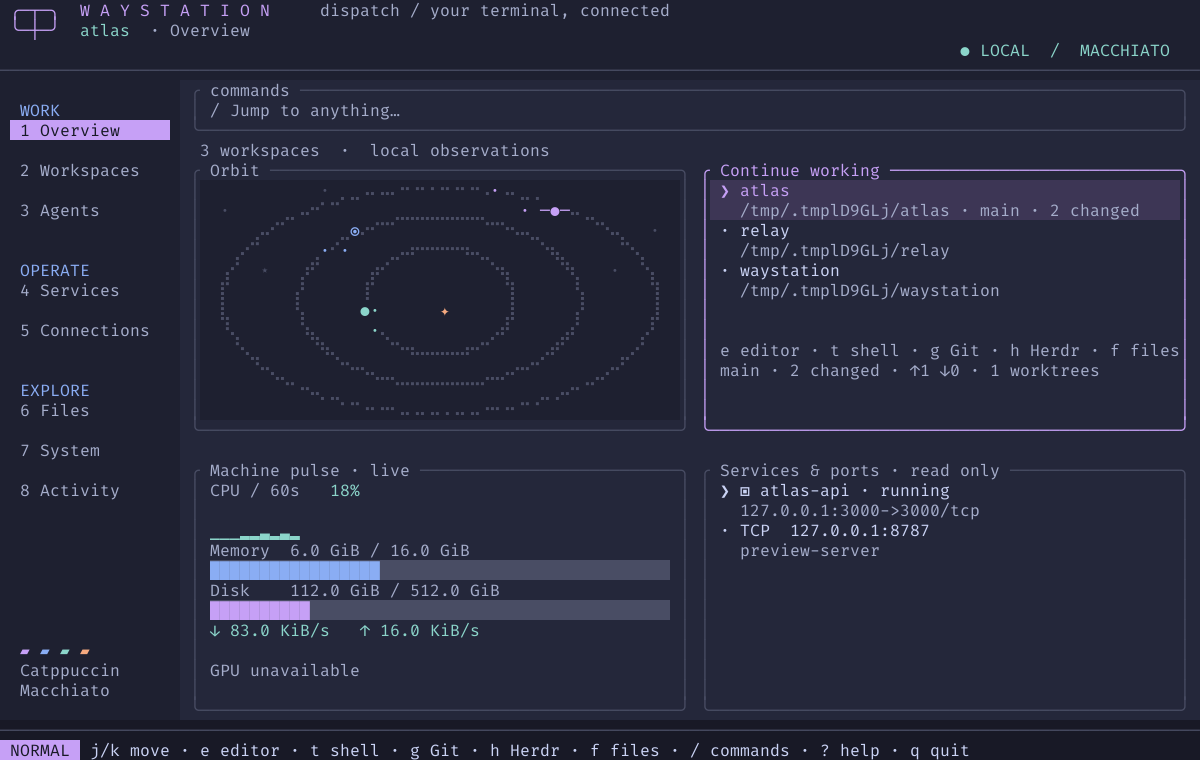
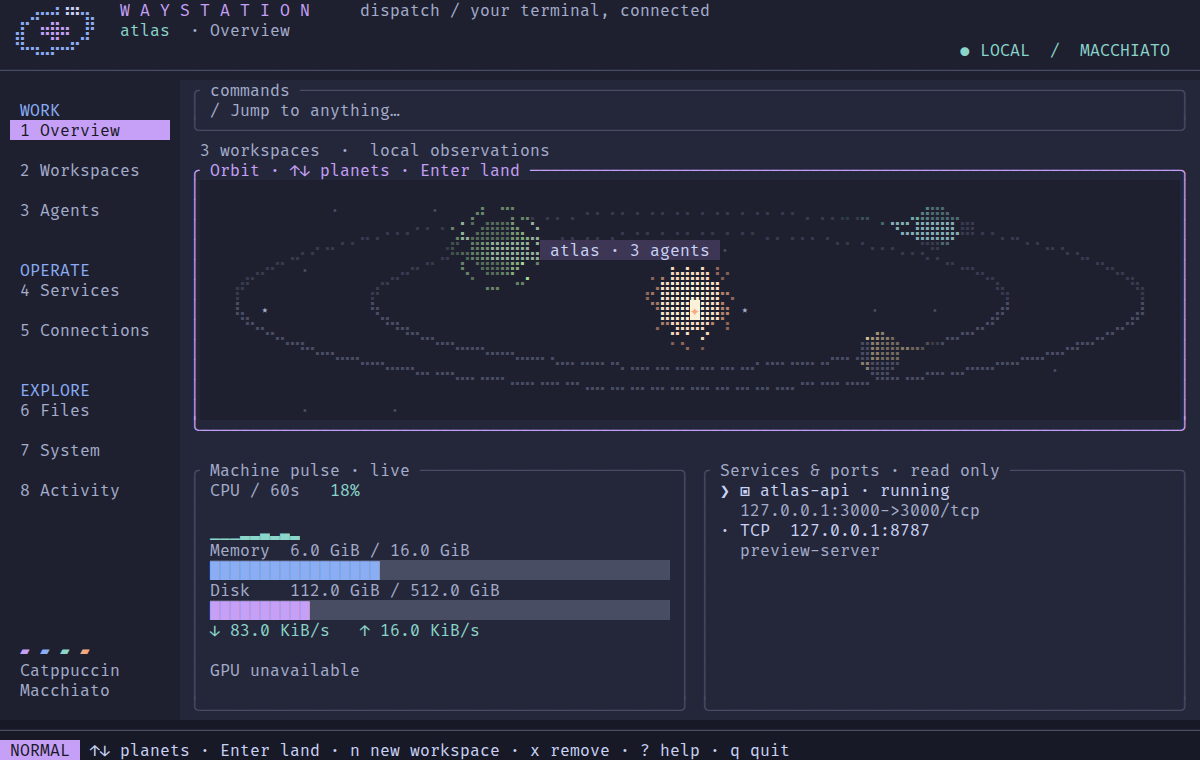
docs: refresh the README screenshot with the orbit's planets
The overview demo now has recent workspaces and agents, so the orbit
shows planets with moons instead of a single bare planet.

diff --git a/examples/capture.rs b/examples/capture.rs
@@ -38,6 +38,10 @@ fn demo_app(root: &Path) -> anyhow::Result<App> {
         services::{Container, Listener},
         system::SystemStats,
     };
+    use waystation::{
+        agents::{AgentSession, AgentStatus},
+        config::ToolCommand,
+    };
 
     let mut a = App::new(Config::default(), AppState::default());
     let workspaces = ["atlas", "relay", "waystation"]
@@ -52,6 +56,31 @@ fn demo_app(root: &Path) -> anyhow::Result<App> {
         })
         .collect::<anyhow::Result<Vec<_>>>()?;
     let selected = workspaces[0].id.clone();
+    // Recent workspaces become the orbit's planets, and agents its moons.
+    a.state.recent_workspaces = workspaces.iter().map(|w| w.id.clone()).collect();
+    a.agents = [
+        ("api", 0, "claude", AgentStatus::Running),
+        ("docs", 0, "codex", AgentStatus::Running),
+        ("tests", 0, "claude", AgentStatus::Saved),
+        ("proxy", 1, "codex", AgentStatus::Running),
+        ("release", 2, "claude", AgentStatus::Exited(0)),
+    ]
+    .into_iter()
+    .map(|(name, w, tool, status)| AgentSession {
+        id: uuid::Uuid::new_v4(),
+        name: name.into(),
+        tool: tool.into(),
+        workspace: workspaces[w].id.clone(),
+        command: ToolCommand {
+            program: tool.into(),
+            args: vec![],
+        },
+        executable: format!("/usr/bin/{tool}").into(),
+        created: std::time::SystemTime::UNIX_EPOCH,
+        conversation: None,
+        status,
+    })
+    .collect();
     a.set_workspaces(workspaces);
     a.git = Snapshot::ready(
         GitState {
